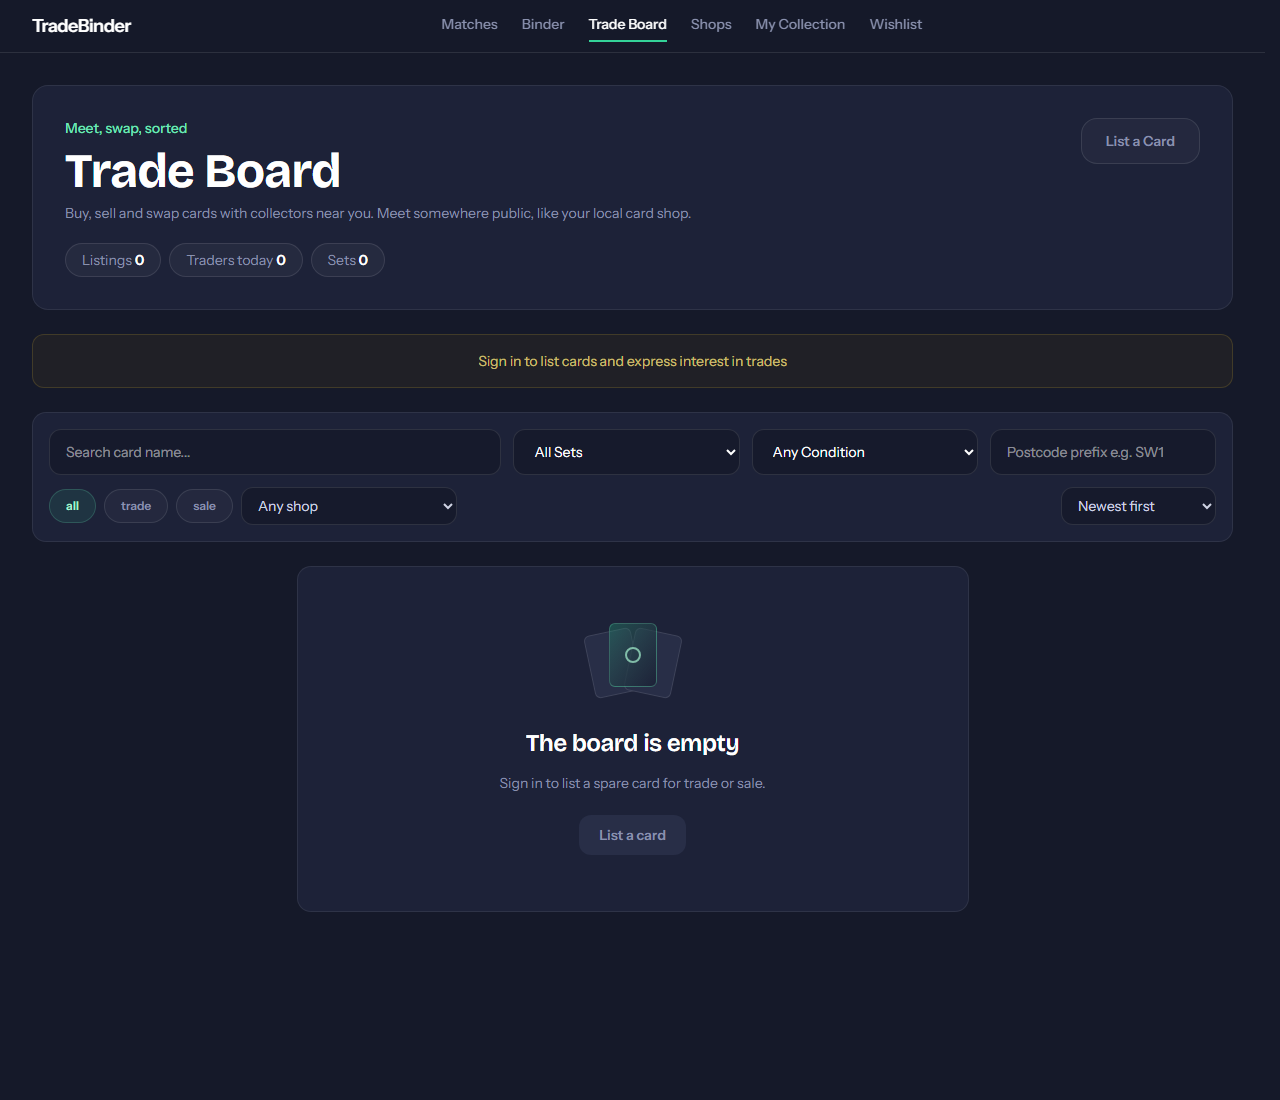
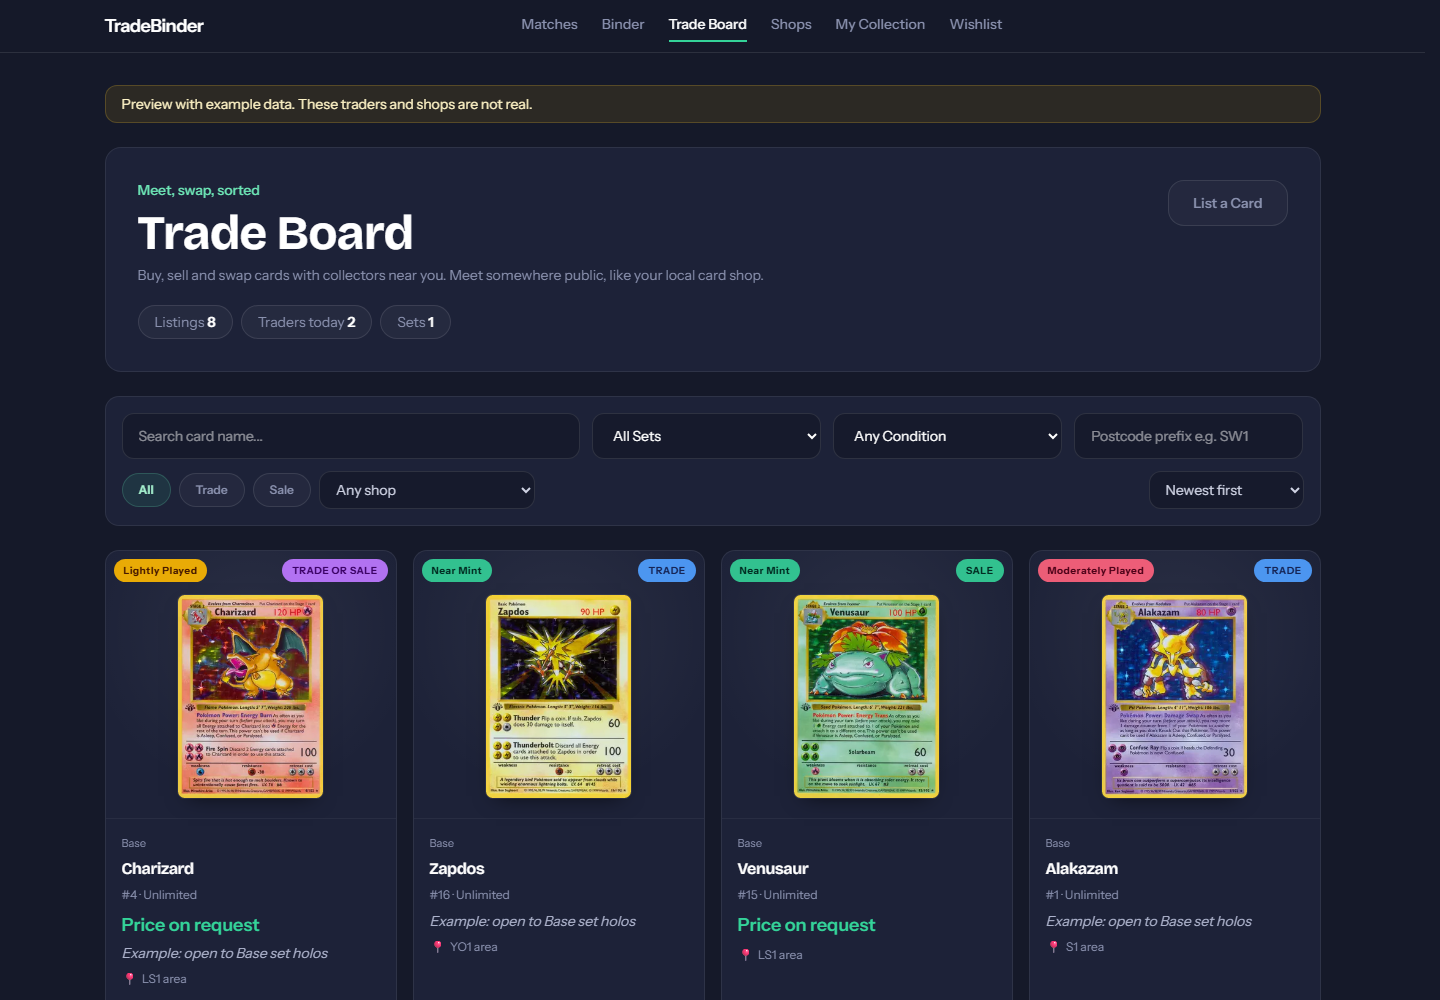
feat(demo): fill the Trade Board and make shop chips filter
Sale listings use no price, so nothing made up reads as a real value.

diff --git a/lib/demo.ts b/lib/demo.ts
@@ -2,6 +2,7 @@
 // this is the only way to see the matching and shop pages. Nothing here is real:
 // the traders and shops are made up, and every demo page says so.
 
+import type { TradeListing } from '../app/trade/types';
 import type { MatchRow } from './matching';
 import type { Shop } from './shops';
 
@@ -63,6 +64,7 @@ function row(
 const sam: [string, string] = ['demo-sam', 'Sam (example)'];
 const robin: [string, string] = ['demo-robin', 'Robin (example)'];
 const alex: [string, string] = ['demo-alex', 'Alex (example)'];
+const jo: [string, string] = ['demo-jo', 'Jo (example)'];
 
 export const DEMO_MATCHES: MatchRow[] = [
   row(robin, 'they_have', 15, 'Venusaur', { condition: null }),
@@ -73,5 +75,69 @@ export const DEMO_MATCHES: MatchRow[] = [
   row(alex, 'i_have', 10, 'Mewtwo', { condition: 'MP' }),
   row(robin, 'i_have', 8, 'Machamp', { is_spare: true }),
   row(robin, 'i_have', 7, 'Hitmonchan'),
-  row(['demo-jo', 'Jo (example)'], 'they_have', 1, 'Alakazam'),
+  row(jo, 'they_have', 1, 'Alakazam'),
 ];
+
+// Which shop each example trader uses, so the home shop chips filter.
+const DEMO_TRADER_SHOPS: Record<string, string> = {
+  'demo-sam': 'demo-1',
+  'demo-robin': 'demo-1',
+  'demo-alex': 'demo-2',
+  'demo-jo': 'demo-3',
+};
+
+export function demoMatches(shopId: string) {
+  return shopId ? DEMO_MATCHES.filter((match) => DEMO_TRADER_SHOPS[match.trader_id] === shopId) : DEMO_MATCHES;
+}
+
+function listing(
+  trader: [string, string],
+  number: number,
+  name: string,
+  hoursAgo: number,
+  nowMs: number,
+  extra: Partial<TradeListing> = {}
+): TradeListing {
+  return {
+    id: `${trader[0]}-listing-${number}`,
+    user_id: trader[1],
+    card_id: `base1-${number}`,
+    card_name: name,
+    set_name: 'Base',
+    set_id: 'base1',
+    card_number: String(number),
+    variant: 'Unlimited',
+    condition: 'Near Mint',
+    listing_type: 'trade',
+    // No made-up prices: a sale listing reads "Price on request".
+    price: null,
+    trade_description: 'Example: open to Base set holos',
+    postcode_prefix: DEMO_SHOPS.find((entry) => entry.id === DEMO_TRADER_SHOPS[trader[0]])?.postcode_prefix ?? null,
+    image_url: null,
+    card_image_url: `https://images.pokemontcg.io/base1/${number}.png`,
+    created_at: new Date(nowMs - hoursAgo * 3_600_000).toISOString(),
+    is_active: true,
+    ...extra,
+  };
+}
+
+export function demoListings(nowMs: number): TradeListing[] {
+  return [
+    listing(sam, 4, 'Charizard', 1, nowMs, { condition: 'Lightly Played', listing_type: 'either' }),
+    listing(alex, 16, 'Zapdos', 3, nowMs),
+    listing(robin, 15, 'Venusaur', 5, nowMs, { listing_type: 'sale', trade_description: null }),
+    listing(jo, 1, 'Alakazam', 8, nowMs, { condition: 'Moderately Played' }),
+    listing(sam, 58, 'Pikachu', 26, nowMs, { variant: 'Normal', trade_description: null }),
+    listing(alex, 10, 'Mewtwo', 30, nowMs, { condition: 'Moderately Played', listing_type: 'sale', trade_description: null }),
+    listing(robin, 8, 'Machamp', 50, nowMs, { variant: '1st Edition' }),
+    listing(jo, 2, 'Blastoise', 72, nowMs, { condition: 'Heavily Played', listing_type: 'either' }),
+  ];
+}
+
+// Listings a shop has, derived the same way so the board's shop filter works too.
+export function demoShopByListing(listings: TradeListing[]) {
+  const traderByName = new Map([sam, robin, alex, jo].map(([id, name]) => [name, id]));
+  return Object.fromEntries(
+    listings.map((entry) => [entry.id, DEMO_TRADER_SHOPS[traderByName.get(entry.user_id) ?? '']])
+  );
+}

diff --git a/tests/demo.test.ts b/tests/demo.test.ts
@@ -1,0 +1,38 @@
+import { describe, expect, it } from 'vitest';
+import { DEMO_MATCHES, DEMO_SHOPS, demoListings, demoMatches, demoShopByListing } from '../lib/demo';
+
+describe('demo data', () => {
+  it('shows every trader with no shop chosen and only that shop\'s traders with one', () => {
+    expect(demoMatches('')).toEqual(DEMO_MATCHES);
+
+    const leeds = new Set(demoMatches('demo-1').map((match) => match.trader_id));
+    expect(leeds).toEqual(new Set(['demo-sam', 'demo-robin']));
+  });
+
+  it('gives every shop chip at least one trader, and every trader a shop', () => {
+    for (const shop of DEMO_SHOPS) {
+      expect(demoMatches(shop.id).length).toBeGreaterThan(0);
+    }
+    expect(DEMO_SHOPS.flatMap((shop) => demoMatches(shop.id))).toHaveLength(DEMO_MATCHES.length);
+  });
+
+  it('never shows a made-up price and lists newest first', () => {
+    const listings = demoListings(Date.parse('2026-11-02T12:00:00Z'));
+
+    expect(listings.length).toBeGreaterThan(0);
+    expect(listings.every((listing) => listing.price === null)).toBe(true);
+
+    const times = listings.map((listing) => Date.parse(listing.created_at));
+    expect(times).toEqual([...times].sort((a, b) => b - a));
+  });
+
+  it('links each listing to a real demo shop', () => {
+    const listings = demoListings(0);
+    const shopByListing = demoShopByListing(listings);
+    const shopIds = new Set(DEMO_SHOPS.map((shop) => shop.id));
+
+    for (const listing of listings) {
+      expect(shopIds.has(shopByListing[listing.id])).toBe(true);
+    }
+  });
+});

diff --git a/app/trade/page.tsx b/app/trade/page.tsx
@@ -1,6 +1,8 @@
 'use client';
 
+import { demoMode } from '../../lib/demo';
 import { useAuth } from '../auth';
+import { DemoBanner } from '../components/DemoBanner';
 import { ListingModal } from './components/ListingModal';
 import { TradeBoardGrid } from './components/TradeBoardGrid';
 import { TradeBoardHeader } from './components/TradeBoardHeader';
@@ -22,6 +24,12 @@ export default function TradeBoardPage() {
   return (
     <main className="min-h-screen bg-transparent text-stone-100">
       <div className="mx-auto w-full max-w-7xl px-4 py-8 sm:px-6 lg:px-8">
+        {demoMode ? (
+          <div className="mb-6">
+            <DemoBanner />
+          </div>
+        ) : null}
+
         <TradeBoardHeader
           stats={board.stats}
           wishlistMatchCount={filters.wishlistMatchCount}
@@ -36,7 +44,7 @@ export default function TradeBoardPage() {
           (the filter bar, the error panel and the grid); it was the only mt-4
           of the four.
         */}
-        {!user && !authLoading ? (
+        {!user && !authLoading && !demoMode ? (
           <div className="mt-6 rounded-xl border border-amber-300/15 bg-amber-400/5 p-4 text-center text-sm text-amber-200/80">
             Sign in to list cards and express interest in trades
           </div>

diff --git a/app/trade/hooks/useShopFilter.ts b/app/trade/hooks/useShopFilter.ts
@@ -1,7 +1,7 @@
 'use client';
 
 import { useEffect, useState } from 'react';
-import { demoMode } from '../../../lib/demo';
+import { demoListings, demoMode, demoShopByListing } from '../../../lib/demo';
 import { loadShops, type Shop } from '../../../lib/shops';
 import { supabase } from '../../../lib/supabaseClient';
 
@@ -16,7 +16,12 @@ export function useShopFilter() {
       const loaded = await loadShops().catch(() => []);
       setShops(loaded);
 
-      if (demoMode || !supabase || loaded.length === 0) {
+      if (demoMode) {
+        setShopByListing(demoShopByListing(demoListings(Date.now())));
+        return;
+      }
+
+      if (!supabase || loaded.length === 0) {
         return;
       }
 

diff --git a/app/trade/hooks/useTradeListings.ts b/app/trade/hooks/useTradeListings.ts
@@ -2,7 +2,7 @@
 
 import { useRouter } from 'next/navigation';
 import { useEffect, useMemo, useState } from 'react';
-import { demoMode } from '../../../lib/demo';
+import { demoListings, demoMode } from '../../../lib/demo';
 import { supabase } from '../../../lib/supabaseClient';
 import { useAuth } from '../../auth';
 import type { TradeBoardStats, TradeListing } from '../types';
@@ -42,6 +42,7 @@ export function useTradeListings() {
   useEffect(() => {
     async function loadListings() {
       if (demoMode) {
+        setListings(demoListings(Date.now()));
         setLoading(false);
         return;
       }
